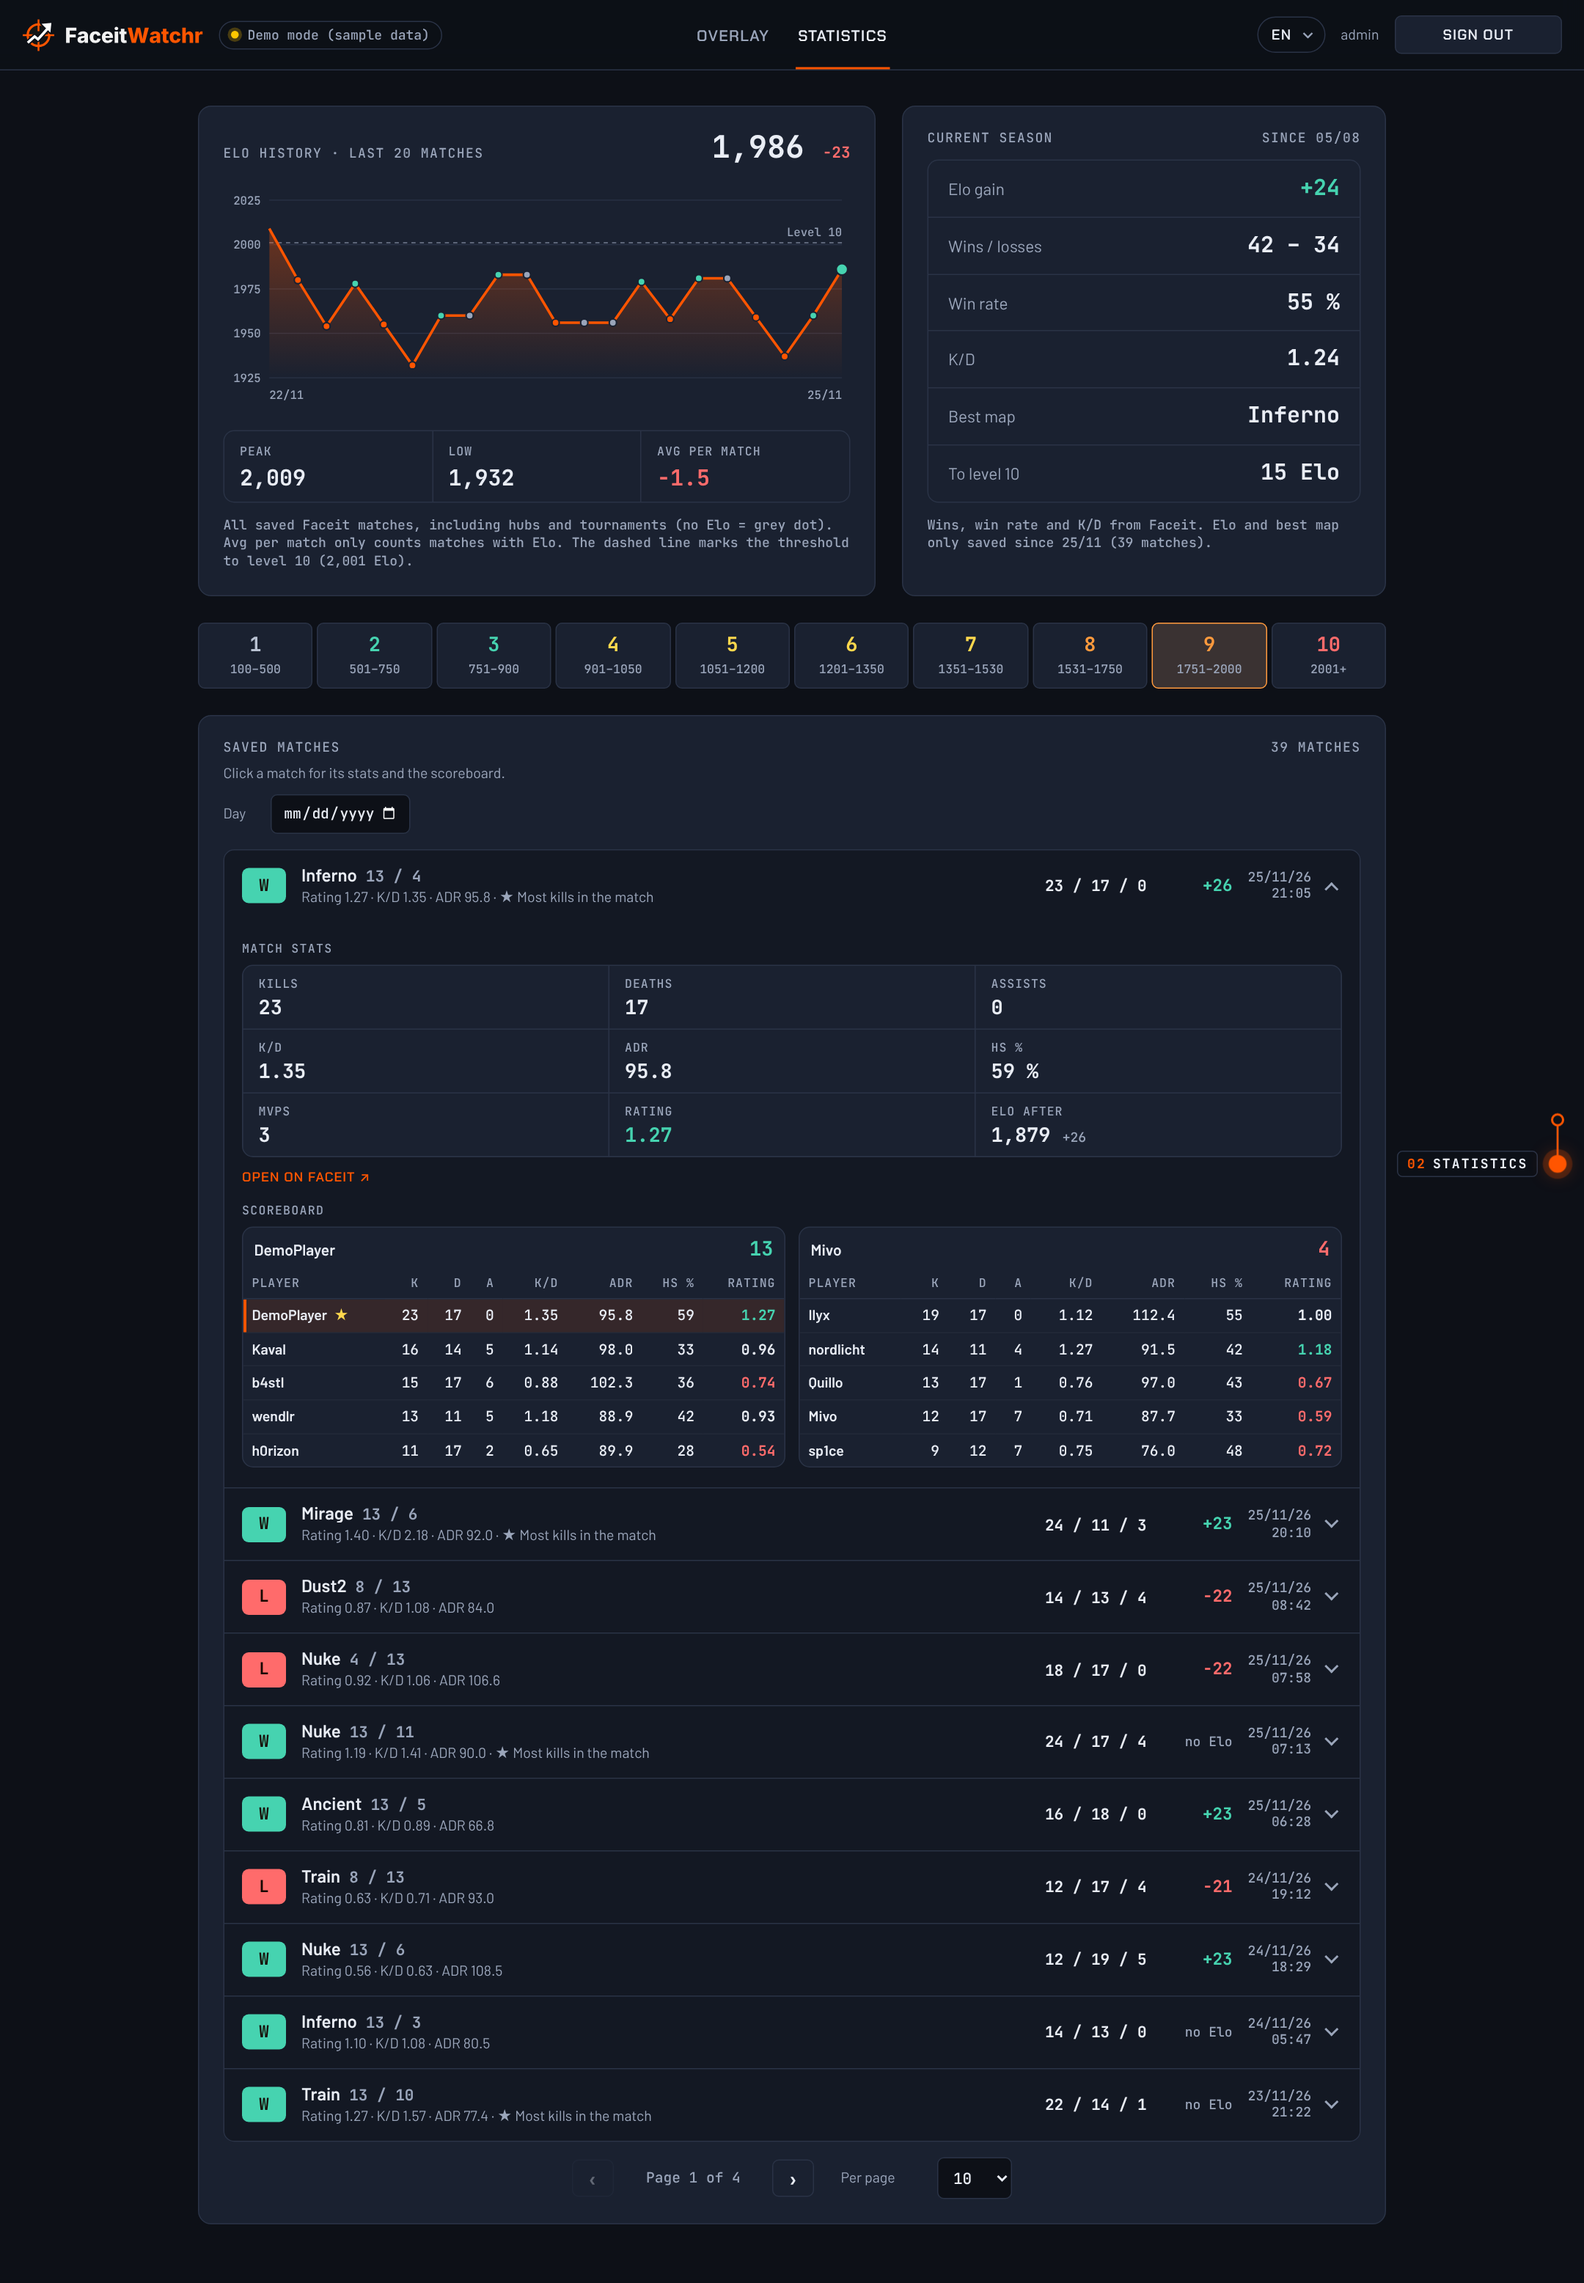
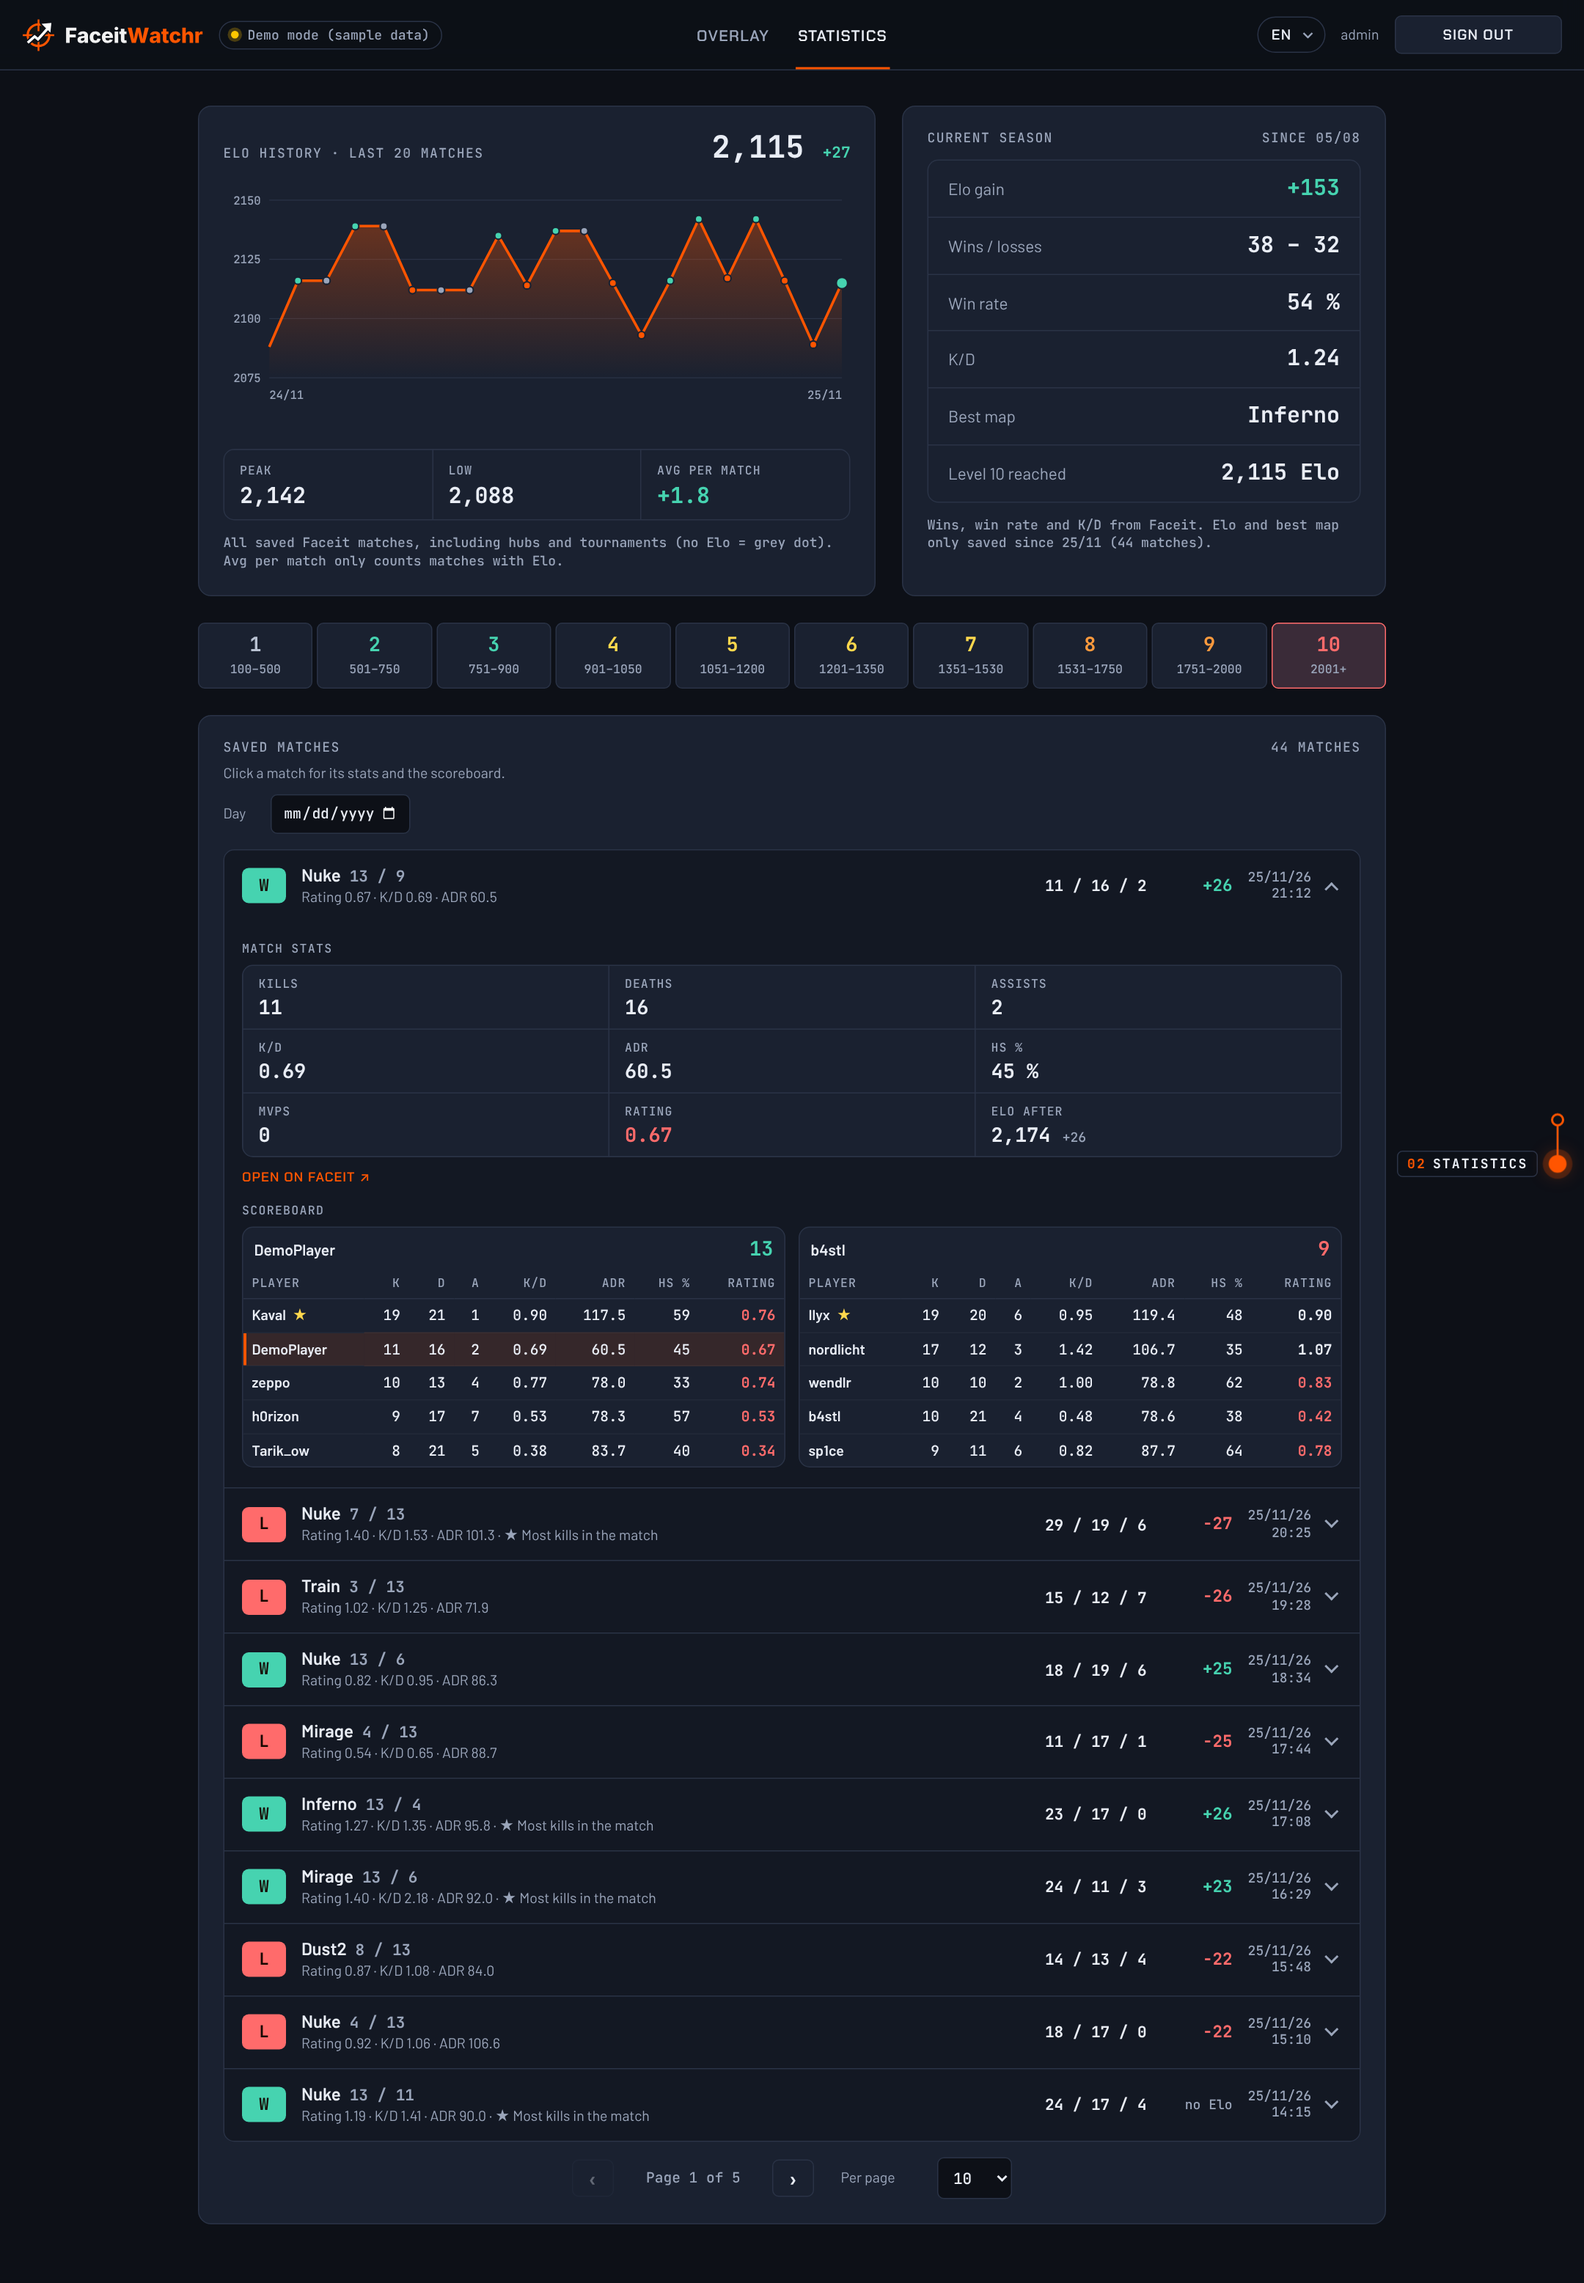
Match list: keep ratings of opened matches, gentler backfill, focus and mobile fixes

diff --git a/src/tracker.ts b/src/tracker.ts
@@ -1,5 +1,5 @@
 import { EventEmitter } from 'node:events';
-import { LEVEL_THRESHOLDS, type MatchResult, type PlayerSnapshot, type RecentMatch, type StatsSource } from './faceit/types.ts';
+import { LEVEL_THRESHOLDS, type MatchResult, type PlayerSnapshot, type RecentMatch, type ScoreboardTeam, type StatsSource } from './faceit/types.ts';
 import type { Storage } from './storage/storage.ts';
 
 /** Beginn der aktuellen FACEIT-Season (Season 9), solange im Editor kein eigenes Datum gesetzt ist. */
@@ -117,6 +117,16 @@ const ELO_RETRY_MS = 5 * 60 * 1000;
 
 /** Abstand zwischen zwei nachgeladenen Scoreboards (ein Faceit-Abruf pro Schritt) */
 const BACKFILL_MS = 4000;
+/** Pause des Nachladens nach einem Fehler von Faceit */
+const BACKFILL_PAUSE_MS = 5 * 60_000;
+/** So oft ohne Scoreboard von Faceit, dann wird das Match nicht mehr nachgeladen */
+const BACKFILL_MAX_MISSES = 3;
+
+/** Rating des eigenen Spielers aus dem Scoreboard am Match merken, damit die Match-Liste es ohne Scoreboard zeigt */
+function withRating(m: MatchResult): MatchResult {
+  m.rating = m.scoreboard?.flatMap((t) => t.players).find((p) => p.playerId === m.playerId)?.rating ?? m.rating ?? null;
+  return m;
+}
 
 /** Fragt Faceit regelmäßig ab, speichert neue Stände und verteilt den Live-Zustand an alle Overlays. */
 export class Tracker extends EventEmitter {
@@ -156,6 +166,8 @@ export class Tracker extends EventEmitter {
   stop() {
     if (this.timer) clearInterval(this.timer);
     if (this.backfillTimer) clearInterval(this.backfillTimer);
+    this.timer = null;
+    this.backfillTimer = null;
   }
 
   async setNickname(nickname: string) {
@@ -168,6 +180,9 @@ export class Tracker extends EventEmitter {
     this.state.recentMatches = [];
     // Wartende Matches gehören zum alten Spieler und dürfen nicht die Elo des neuen bekommen
     this.pending = [];
+    // Nachladen der Scoreboards für den neuen Spieler gleich neu beginnen
+    this.backfillQueue = [];
+    this.backfillCheckedAt = 0;
     await this.poll();
   }
 
@@ -399,8 +414,10 @@ export class Tracker extends EventEmitter {
       try {
         const mvp = await this.source.fetchMatchMvp(m.matchId, m.playerId);
         if (mvp === null) continue;
-        m.matchMvp = mvp;
-        this.storage.saveMatch(m);
+        // Frisch lesen und nur den MVP ändern, damit inzwischen Gespeichertes (z. B. Scoreboard) erhalten bleibt
+        const fresh = this.storage.getMatch(m.matchId) ?? m;
+        fresh.matchMvp = m.matchMvp = mvp;
+        this.storage.saveMatch(fresh);
       } catch (err) {
         console.error('Match-MVP konnte nicht geladen werden:', err instanceof Error ? err.message : err);
       }
@@ -454,23 +471,43 @@ export class Tracker extends EventEmitter {
   async scoreboard(matchId: string) {
     const match = this.storage.getMatch(matchId);
     if (!match) return null;
-    if (match.scoreboard?.length) return match.scoreboard;
-    // Ohne Erfolg erst nach 10 Minuten wieder bei Faceit fragen
-    if (Date.now() - (this.boardMisses.get(matchId) ?? 0) < 10 * 60_000) return null;
-    const teams = await this.source.fetchScoreboard?.(matchId, match.playerId).catch(() => null);
-    if (!teams?.length) {
-      this.boardMisses.set(matchId, Date.now());
-      return null;
+    if (match.scoreboard?.length) {
+      // Ältere Versionen haben das Scoreboard ohne das Rating am Match gespeichert
+      if (match.rating === undefined) this.storage.saveMatch(withRating(match));
+      return match.scoreboard;
     }
-    // Frisch lesen: während der Abfrage kann sich das Match geändert haben (z. B. Elo eingetragen)
-    const fresh = this.storage.getMatch(matchId) ?? match;
-    fresh.scoreboard = teams;
-    // Rating am Match selbst merken, damit die Match-Liste es auch ohne Scoreboard zeigt
-    fresh.rating = teams.flatMap((t) => t.players).find((p) => p.playerId === fresh.playerId)?.rating ?? fresh.rating ?? null;
-    this.storage.saveMatch(fresh);
-    return teams;
+    const miss = this.boardMisses.get(matchId);
+    // Ohne Erfolg erst nach 10 Minuten wieder bei Faceit fragen
+    if (miss && Date.now() - miss.at < 10 * 60_000) return null;
+    // Gleiches Match wird schon abgefragt (Hintergrund und Klick gleichzeitig): auf dieselbe Antwort warten
+    const running = this.boardLoads.get(matchId);
+    if (running) return running;
+    const load = (async () => {
+      let teams: ScoreboardTeam[] | null = null;
+      try {
+        teams = (await this.source.fetchScoreboard?.(matchId, match.playerId)) ?? null;
+      } catch {
+        this.backfillPauseUntil = Date.now() + BACKFILL_PAUSE_MS;
+      }
+      if (!teams?.length) {
+        this.boardMisses.set(matchId, { at: Date.now(), count: (miss?.count ?? 0) + 1 });
+        return null;
+      }
+      // Frisch lesen: während der Abfrage kann sich das Match geändert haben (z. B. Elo eingetragen)
+      const fresh = this.storage.getMatch(matchId) ?? match;
+      fresh.scoreboard = teams;
+      this.storage.saveMatch(withRating(fresh));
+      return teams;
+    })();
+    this.boardLoads.set(matchId, load);
+    try {
+      return await load;
+    } finally {
+      this.boardLoads.delete(matchId);
+    }
   }
-  private boardMisses = new Map<string, number>();
+  private boardMisses = new Map<string, { at: number; count: number }>();
+  private boardLoads = new Map<string, Promise<ScoreboardTeam[] | null>>();
 
   /**
    * Scoreboards (und damit das Rating) älterer Matches im Hintergrund nachladen: ein Match pro Schritt,
@@ -480,13 +517,22 @@ export class Tracker extends EventEmitter {
   private backfillQueue: string[] = [];
   private backfillCheckedAt = 0;
   private backfilling = false;
+  /** Nach einem Fehler von Faceit (z. B. Abruf-Limit) eine Weile nichts nachladen */
+  private backfillPauseUntil = 0;
   private async backfillStep() {
     const playerId = this.state.player?.playerId;
     if (this.backfilling || !playerId || !this.source.fetchScoreboard) return;
+    if (this.state.error || Date.now() < this.backfillPauseUntil) return;
     if (!this.backfillQueue.length) {
       if (Date.now() - this.backfillCheckedAt < 10 * 60_000) return;
       this.backfillCheckedAt = Date.now();
-      this.backfillQueue = this.storage.listMatches(playerId, 1000).filter((m) => !m.scoreboard?.length).map((m) => m.matchId);
+      const stored = this.storage.listMatches(playerId, 1000);
+      // Scoreboard schon da, nur das Rating fehlt (ältere Version): ohne Faceit direkt eintragen
+      for (const m of stored) if (m.scoreboard?.length && m.rating === undefined) this.storage.saveMatch(withRating(m));
+      // Matches, für die Faceit dreimal kein Scoreboard hatte, nicht mehr abfragen
+      this.backfillQueue = stored
+        .filter((m) => !m.scoreboard?.length && (this.boardMisses.get(m.matchId)?.count ?? 0) < BACKFILL_MAX_MISSES)
+        .map((m) => m.matchId);
       if (!this.backfillQueue.length) return;
     }
     this.backfilling = true;
@@ -530,7 +576,10 @@ export class Tracker extends EventEmitter {
         m.eloAfter = history[i].elo;
         m.eloBefore = history[i].elo - delta;
         m.eloChange = delta;
-        this.storage.saveMatch(m);
+        // Frisch lesen und nur die Elo ändern, damit ein inzwischen nachgeladenes Scoreboard nicht verloren geht
+        const fresh = this.storage.getMatch(m.matchId) ?? m;
+        Object.assign(fresh, { eloAfter: m.eloAfter, eloBefore: m.eloBefore, eloChange: delta });
+        this.storage.saveMatch(fresh);
       }
     }
 

diff --git a/public/js/stats.js b/public/js/stats.js
@@ -275,7 +275,8 @@ function renderMatches() {
     input.min = dayKey(matches[matches.length - 1].finishedAt);
     input.max = dayKey(matches[0].finishedAt);
   }
-  input.value = day;
+  // Nicht überschreiben, während jemand im Feld ein Datum tippt
+  if (input.value !== day && document.activeElement !== input) input.value = day;
   $('matchDayAll').hidden = !day;
   // Beim ersten Öffnen ist das neueste Match aufgeklappt
   if (!autoOpened && all.length) {
@@ -286,7 +287,10 @@ function renderMatches() {
   const empty = day ? 'matchesNoDay' : data ? 'noMatches' : 'noPlayer';
   const pages = Math.max(1, Math.ceil(all.length / perPage));
   page = Math.min(page, pages - 1);
+  // Fokus in der Liste merken: das Neuzeichnen (z. B. neues Rating im Hintergrund) soll ihn nicht verlieren
+  const focusId = list.contains(document.activeElement) ? document.activeElement.closest('li')?.dataset.id : null;
   list.innerHTML = all.slice(page * perPage, (page + 1) * perPage).map(matchRow).join('') || `<li class="empty">${esc(t(empty))}</li>`;
+  if (focusId) list.querySelector(`li[data-id="${CSS.escape(focusId)}"] .run-row`)?.focus({ preventScroll: true });
   $('matchPager').hidden = !all.length;
   $('pageInfo').textContent = t('pageOf', { a: page + 1, b: pages });
   $('pagePrev').disabled = page === 0;
@@ -338,8 +342,10 @@ $('matchDayAll').addEventListener('click', () => {
 
 // Blättern: danach an den Anfang der Liste, damit man nicht unten auf der neuen Seite landet
 function turn(delta) {
-  page += delta;
+  page = Math.max(0, page + delta);
   renderMatches();
+  // Wird der gedrückte Pfeil deaktiviert (erste/letzte Seite), den Fokus auf den anderen setzen
+  if (document.activeElement?.disabled || document.activeElement === document.body) (delta > 0 ? $('pagePrev') : $('pageNext')).focus();
   $('matchList').scrollIntoView({ block: 'start', behavior: matchMedia('(prefers-reduced-motion: reduce)').matches ? 'auto' : 'smooth' });
 }
 $('pagePrev').addEventListener('click', () => turn(-1));

diff --git a/public/css/editor.css b/public/css/editor.css
@@ -297,6 +297,7 @@ li.open .chev { transform: rotate(225deg) translate(-2px, -2px); }
 .page-btn:disabled { opacity: .35; cursor: default; }
 .per-page { display: flex; align-items: center; gap: 8px; margin-left: 12px; color: var(--muted); font-size: 13px; }
 .per-page select { font-family: var(--f-mono); }
+@media (max-width: 480px) { .per-page { margin-left: 0; flex-basis: 100%; justify-content: center; } }
 .match-filter { display: flex; align-items: center; gap: 10px; flex-wrap: wrap; margin: -4px 0 14px; }
 .match-filter label { display: flex; align-items: center; gap: 10px; color: var(--muted); font-size: 13px; }
 .match-filter input { color-scheme: dark; font-family: var(--f-mono); font-size: 13px; }

diff --git a/public/editor.html b/public/editor.html
@@ -167,7 +167,7 @@
         <ul id="matchList" class="runs"></ul>
         <div class="pager" id="matchPager" hidden>
           <button id="pagePrev" type="button" class="page-btn" data-i18n-aria-label="pagePrev" aria-label="Vorherige Seite">‹</button>
-          <span id="pageInfo"></span>
+          <span id="pageInfo" aria-live="polite"></span>
           <button id="pageNext" type="button" class="page-btn" data-i18n-aria-label="pageNext" aria-label="Nächste Seite">›</button>
           <label class="per-page"><span data-i18n="perPage">Pro Seite</span>
             <select id="perPage"><option>10</option><option>25</option><option>50</option><option>100</option></select>

diff --git a/README.md b/README.md
@@ -25,7 +25,7 @@ Build your own Faceit overlays (Elo, level, K/D, session stats, …) for OBS and
 
 **Statistics:** Elo history of your last 20 matches, the current season and all Faceit levels at a glance.
 
-**Saved matches:** below that, every match FaceitWatchr has saved. Click one to see your stats in that match (K/D/A, ADR, HS %, MVPs, rating, Elo after) and the scoreboard of both teams. The rating is HLTV Rating 1.0, calculated from kills, deaths, rounds and multi-kills (1.00 = average); Faceit doesn't show a rating itself. Pick a day to see only the matches of that day. The list is split into pages with arrows at the bottom; choose 10, 25, 50 or 100 matches per page, and the editor remembers it. Matches saved before this version get their scoreboard and rating from Faceit in the background, a few seconds per match, so the rating shows up in the list without opening each match and stays after a reload.
+**Saved matches:** below that, every match FaceitWatchr has saved. Click one to see your stats in that match (K/D/A, ADR, HS %, MVPs, rating, Elo after) and the scoreboard of both teams. The rating is HLTV Rating 1.0, calculated from kills, deaths, rounds and multi-kills (1.00 = average); Faceit doesn't show a rating itself. Pick a day to see only the matches of that day. The list is split into pages with arrows at the bottom; choose 10, 25, 50 or 100 matches per page, and your browser remembers it. Matches saved before this version get their scoreboard and rating from Faceit in the background, a few seconds per match, so the rating shows up in the list without opening each match and stays after a reload.
 
 ![Statistics view with Elo history, season, levels and the saved matches with one match opened](docs/screenshots/stats.png)
 
